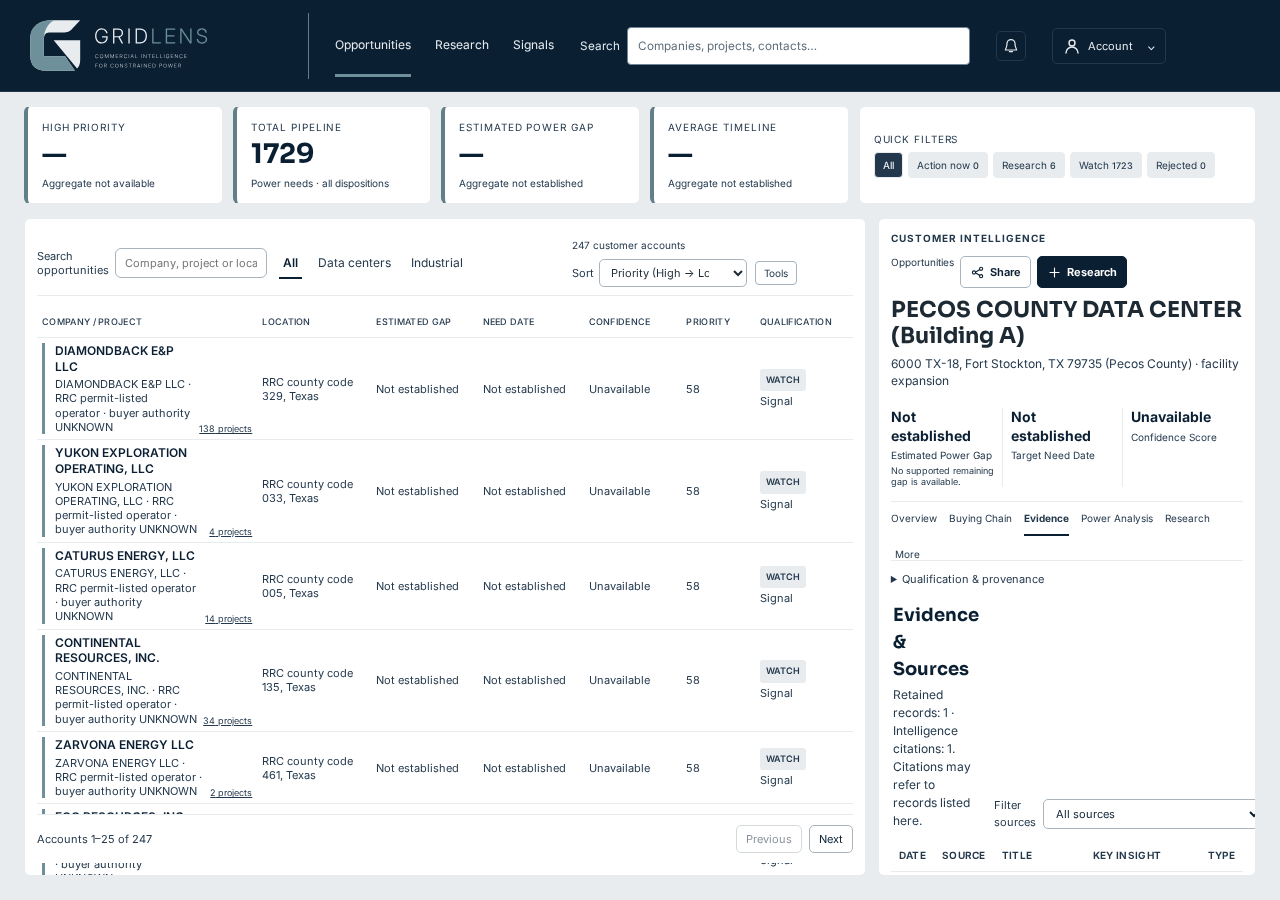
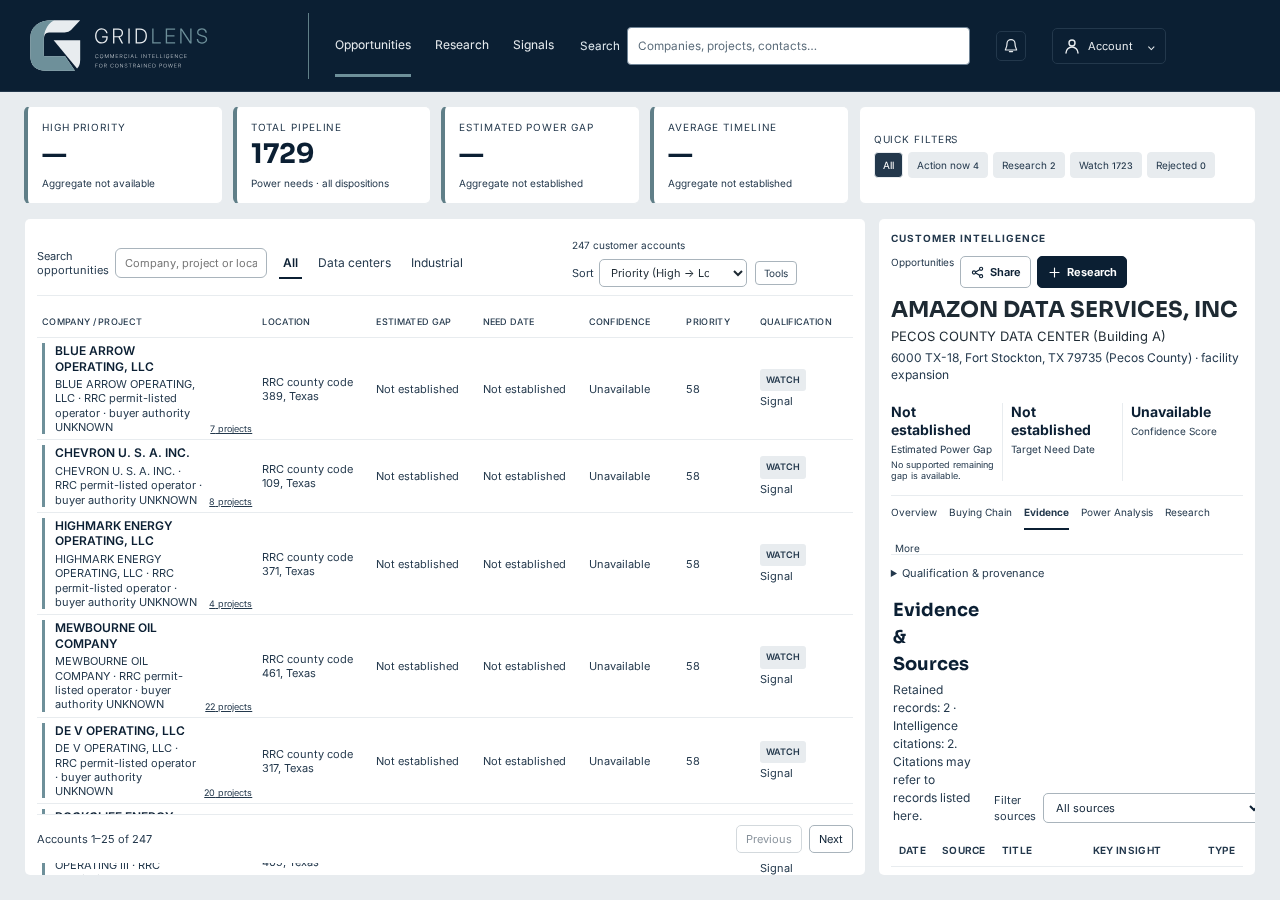
Record real contact route browser acceptance

diff --git a/docs/validation/commercial-release-20261026/browser-operations.md b/docs/validation/commercial-release-20261026/browser-operations.md
@@ -1,6 +1,6 @@
 # Commercial release browser and operations acceptance — 2026-10-26
 
-Status: **PARTIAL — browser diagnostics passed for A and B; case C passed; case D and current production runtime evidence remain blocked.** A and B are partial scenario coverage, not commercial acceptance: A lacks a source-backed power need/contact, and B is an upstream well permit rather than midstream compression/processing. This receipt belongs to browser lane baseline `29c4fe0` on `release/browser-20261026`; local browser execution below used app/backend source `29c4fe0`. It is not a production readiness claim.
+Status: **PARTIAL — A and D contact-display checks, B and C scenario diagnostics passed; four-case commercial acceptance is not met.** A, B, and D all retain unknown electric need/gap/timing/buyer fields; B is an upstream well permit rather than midstream compression/processing, and C is a historical in-use bridge rather than open procurement. Production runtime evidence also remains unavailable. UI commits `e967048` and `6cec760` clarify the Signal + ACTION NOW badge as `Discovery call · Power need unconfirmed`, label owner-company phone methods explicitly, and call method timestamps “Published method source checked”; backend enums, tiers, scores, layout, colors, and workflows are unchanged. Local browser execution used app/backend source `29c4fe0` plus these frontend commits. This is not a production readiness claim.
 
 ## Real-corpus browser cases
 
@@ -10,16 +10,16 @@ The controller's [availability receipt](../system-repair-20261026/input-availabi
 
 | Case | Required review | Result |
 |---|---|---|
-| A | Source-backed data-center owner, facility/activity gap, timing, buyer and contact | **PARTIAL DIAGNOSTIC — PECOS COUNTY DATA CENTER project `5796a14e-c301-4f3e-944e-9747ba613d15`, need `bd014849-c79f-442d-b861-81a23d438d5d`, evidence `dda4787a-c1d5-47c3-9e59-3df667bb11d0`.** Official TDLR TABS registration names Amazon Data Services, Inc. as owner and reports registrant-estimated dates. Need MW, utility service date, temporary-power relevance, residual gap, buying authority, and project-connected contact remain unknown or unsupported. The app presents gap and target need date as “Not established,” with no verified contacts. Not a qualified commercial opportunity. |
+| A | Source-backed data-center owner, facility/activity gap, timing, buyer and contact | **PARTIAL — PECOS COUNTY DATA CENTER project `5796a14e-c301-4f3e-944e-9747ba613d15`, need `bd014849-c79f-442d-b861-81a23d438d5d`, official TDLR evidence `dda4787a-c1d5-47c3-9e59-3df667bb11d0`.** TDLR names Amazon Data Services, Inc. as owner, Kali Dickerson as owner representative, and gives registrant-estimated dates. A separate cited owner-company route links to `tel:2062664064` and matches the exact source phone `(206) 266-4064`; the named person has no personal phone/email method. Power MW, utility service date, temporary-power relevance, residual gap, procurement and buyer authority remain unknown. It is a discovery route, not a qualified opportunity. |
 | B | Source-backed midstream compression/processing need | **PARTIAL DIAGNOSTIC ONLY — upstream well permit, not midstream.** Texas W-1 permit project `b8a992fc-b136-4267-8b60-98431c6fa4bf`, need `cf5c53c9-3d9f-4acf-9443-6e8987a97b16`, evidence `ae4dcc63-1af3-44eb-bc80-cbec7e5448b4`. RRC evidence supports a drilling permit and operator association; the need rationale says no power gap is required. Power demand, timing, duration, supply and buyer authority remain unknown. Opportunities search does not show the permit title; it groups by DE V Operating, LLC, with buyer authority marked unknown. This is not a midstream or qualified opportunity. |
[1 lines of base64/hex data omitted]
-| D | Source-cited contact tied to an actionable next step | **NOT RUN** — no qualifying persisted case or project/contact ID supplied. A contact or method must remain attached to its source and company/person attribution; role alone does not establish purchasing authority. |
+| D | Source-cited contact tied to an actionable next step | **PARTIAL PASS — contact-to-action display only.** DAL130 / Circle T Ranch DAL130 Campus project `d94e32ef-93fd-44ee-8f16-1347d8cd0dbf`, need `8160e7ee-2cf7-483f-9dc2-de29a2104fc2`, TDLR evidence `60df52b8-35d9-4196-8e8e-5f8dd0f62b23`. Official TDLR source names Circle T Owner LP, owner representative Zaid Arzate, and company phone `571.731.1698`; the separate company-labeled action links exactly to `tel:5717311698` and is cited to retained source evidence. The named person has no personal method. The page displays package responsibility as something to confirm; buyer authority, temporary need, MW, dates, duration, and gap remain unknown. This is not a qualified purchase. No call or outreach was initiated. |
 
-The real-case Playwright helper in [`commercial_real_cases.spec.ts`](../../../web/tests/commercial_real_cases.spec.ts) reads the committed [case manifest](real-cases.json), checks stable project/need/evidence IDs and source hashes, asserts required unknown fields and case-specific display expectations, and browses actual records through Opportunities, Research, Signals, and global search. It does not mock or seed data. **Three persisted records passed browser diagnostics across two isolated databases**: A and B used `gridlens_release_browser_combined`, while C used `gridlens_release_browser_cases`. A and B remain partial scenarios as stated above; only C is a full pass for the specific historical bridge behavior. The [A workspace](screenshots/A-workspace-desktop.png), [A Evidence](screenshots/A-evidence-desktop.png), [A Research](screenshots/A-research-desktop.png), [A mobile search](screenshots/A-search-mobile.png), [B workspace](screenshots/B-workspace-desktop.png), [B Evidence](screenshots/B-evidence-desktop.png), [B Opportunities](screenshots/B-opportunities-desktop.png), [B Research](screenshots/B-research-desktop.png), [B mobile search](screenshots/B-search-mobile.png), [C Signals](screenshots/C-signals-desktop.png), [C Evidence](screenshots/C-evidence-desktop.png), [C Opportunities](screenshots/C-opportunities-desktop.png), [C Research](screenshots/C-research-desktop.png), and [C mobile search](screenshots/C-search-mobile.png) screenshots show retained records and limitations. Tests ran in headless Chromium through Playwright 1.63.0 against app/backend source `29c4fe0`; A/B used the frozen combined clone, C used a separate bridge clone, each with a projection rebuilt from its own copy. From `web/`, reproduce A/B with `GL3_REAL_CASE_MANIFEST=../docs/validation/commercial-release-20261026/real-cases-native.json DATABASE_URL='postgresql+psycopg://gridlens:gridlens@127.0.0.1:5432/gridlens_release_browser_combined' SAVED_BROWSE_ENABLED=true UV_PROJECT_ENVIRONMENT=/workspace/gl3-release/browser/backend/.venv npm run test:commercial-real`; reproduce C with the same command and `real-cases-bridge.json` plus `gridlens_release_browser_cases`. No external acquisition, mock, seed, or worker was involved.
+The real-case Playwright helper in [`commercial_real_cases.spec.ts`](../../../web/tests/commercial_real_cases.spec.ts) checks stable IDs, source hashes, unknown fields and display expectations while browsing retained records through Opportunities, Research, Signals, Search, and mobile detail. It does not mock or seed data. Initial A/B diagnostics used `gridlens_release_browser_combined`; C used `gridlens_release_browser_cases`. Final A/D contact-refresh checks used isolated clone `gridlens_release_browser_contacts_final`, cloned from `gridlens_release_contacts_pipeline`; the source DB was not mutated. The [contact-refresh manifest](real-cases-contact-refresh.json) binds the routes to exact TDLR source quotes, retained evidence IDs and hashes. Five test executions passed across these runs (A twice, B, C, D); they represent four distinct cases, not five. A and D are partial as described above, B is partial, and C passes only the historical bridge display scenario. Screenshots include the original A/B/C paths above plus [A contact mobile](screenshots/A-contact-mobile.png), [D workspace](screenshots/D-workspace-desktop.png), [D Evidence](screenshots/D-evidence-desktop.png), [D Research](screenshots/D-research-desktop.png), [D mobile contact](screenshots/D-contact-mobile.png), and [D mobile search](screenshots/D-search-mobile.png). Browser ran in headless Chromium via Playwright 1.63.0. Reproduce the final A/D run from `web/` with `GL3_REAL_CASE_MANIFEST=../docs/validation/commercial-release-20261026/real-cases-contact-refresh.json DATABASE_URL='postgresql+psycopg://gridlens:gridlens@127.0.0.1:5432/gridlens_release_browser_contacts_final' SAVED_BROWSE_ENABLED=true UV_PROJECT_ENVIRONMENT=/workspace/gl3-release/browser/backend/.venv npm run test:commercial-real`. The A/B and C commands remain in the prior receipt revision history; their manifests and databases are unchanged. No external acquisition, mock, seed, call, outreach, or worker was involved.
 
 The existing synthetic browser tests remain software checks only and are not counted toward the four cases. The historical `first_path.spec.ts` live-browser suite was run against the six-project Austin copy: all four checks failed because the historical acceptance cohort is absent. Three failures were direct missing-data conditions (no El Paso, Georgia/Chicago, or retained Texas data-center buyer-authority rows). The fourth opened an actual retained Signal, then showed zero rows after searching its displayed permit title. A separate direct API read of the same need by its shorter canonical title returned it, so the UI/search discrepancy remains an investigation lead rather than a confirmed candidate defect; this small verifier does not contain the named 25-project cohort.
 
-The deterministic `npm run test:ci` Playwright regression project passed **120 tests** at `8934bf7`. The real-case project passed **3 persisted browser diagnostics**: A and B on the frozen combined clone and C on the separate historical bridge clone. `npm run typecheck` passed on the current helper. Route-mocked regression evidence is software verification only. The isolated local auth setup required loopback `TRUSTED_ORIGINS` in its ignored `.env`; no product source change was made for that setup issue.
+The deterministic `npm run test:ci` Playwright regression project passed **120 tests** at `8934bf7` before the narrow UI repair. After the repair, focused regressions passed 2/2 for the contact card at 1280px and 390px; the focused action-label test previously passed at `e967048`. `npm run typecheck` passed. Final A/D real-case browser checks passed 2/2 after both UI commits. The original A/B/C real-case runs passed 3/3. Route-mocked regression evidence is software verification only. The isolated local auth setup required loopback `TRUSTED_ORIGINS` in its ignored `.env`; no product source change was made for that setup issue.
 
 ## Local runtime and worker
 
